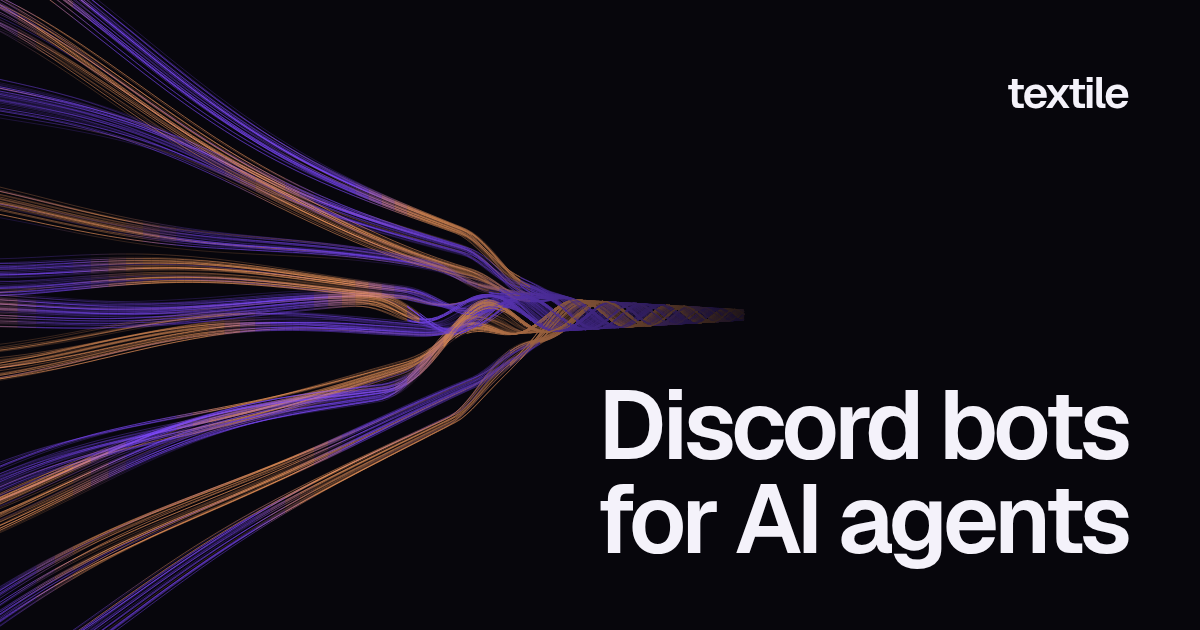
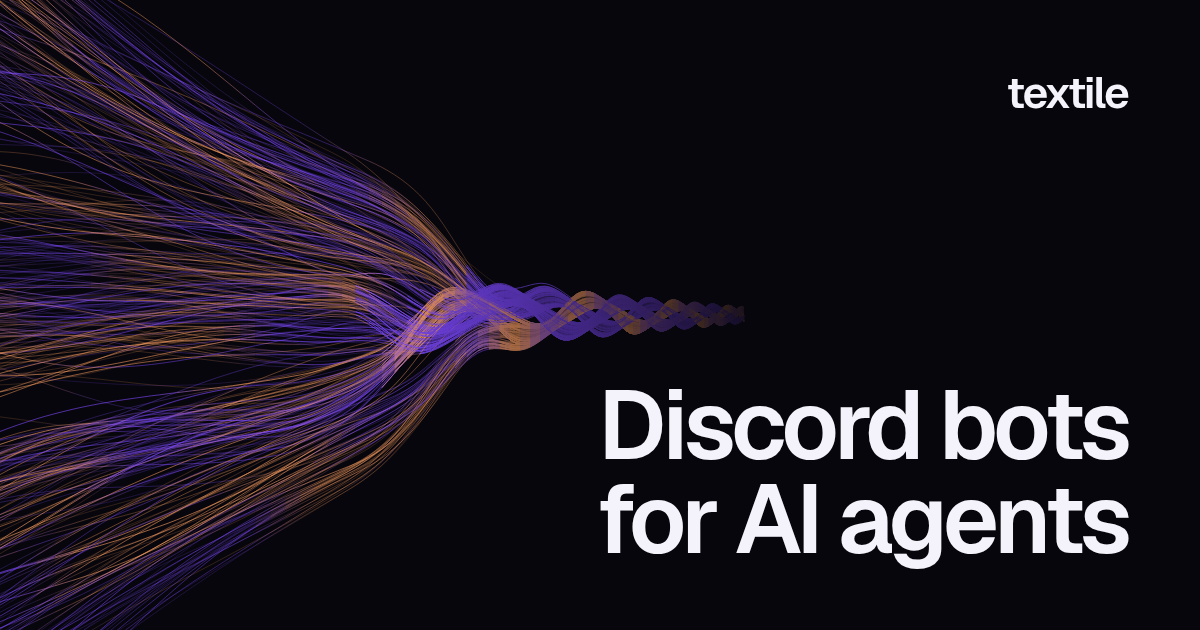
fix(web): glints burn true white, the cord's parting strands carry no rows, and the CPU warms strands as the GPU does
- A glint burns toward a nearly pure white rather than the warm white of hot crossings, whose blue the tone map's
  kept channel ratios held below 220. Over five frames about 1.3% of the braid's pixels now burn white at 4×, against
  1.4–1.5% in the closeup.
- On the cord, the braid's depth shading, its gold strands leaning violet behind, and its glints all fade as soon as
  a strand starts to part. Glints were the rows across the parting strands: they follow the strand's depth, which
  repeats every 40px, and lasted while the strands were still half braided.
- `warmth` on the CPU now leans a gold strand violet behind the braid through `cool`, as the shaders do, from a twist
  it shares with `position`, so the 2D fallback and the social card no longer draw brown undersides. static/og.png is
  regenerated.

Changed region(s): [[0.0, 0.0, 0.6167, 1.0]]

diff --git a/apps/web/src/lib/threads/shaders.ts b/apps/web/src/lib/threads/shaders.ts
@@ -31,6 +31,12 @@ const float = (n: number) => (Number.isInteger(n) ? n.toFixed(1) : String(n))
 /** Half the strip's width, in CSS pixels: room for the thread's own soft halo; the bloom gives the wider glow. */
 const HALF_WIDTH = float(2)
 
+/**
+ * The white a glint burns toward, in either language's vector type: nearly pure, just warm, so a spark on its own reads
+ * white after the tone map keeps its channels' ratios.
+ */
+const SPARK_WHITE = (vec3: string) => `${vec3}(1.0, 0.97, 0.93)`
+
 /** The white the densest light burns toward, in either language's vector type: warm, like the concept's hot crossings. */
 const WARM_WHITE = (vec3: string) => `${vec3}(1.0, 0.93, 0.84)`
 
@@ -93,11 +99,10 @@ const constants = (declare: (name: string, value: string) => string) =>
     // brightest on its band's edge fibres.
     declare('GLINTS', float(12)),
     declare('GLINT_SPEED', float(0.05)),
-    declare('GLINT_LIGHT', float(11)),
+    declare('GLINT_LIGHT', float(13)),
     // How dark a fibre is behind the braid, against in front of it.
     declare('BACK', float(0.2)),
-    // How much of its warmth a strand keeps right at the back of the braid.
-    declare('COOL', float(0.35)),
+    declare('COOL', float(SHAPE.cool)),
     // How much of the bloom adds back, and how bright the flare is where the cord ends.
     declare('BLOOM', float(0.55)),
     declare('FLARE_LIGHT', float(2.5)),
@@ -159,7 +164,7 @@ fn glintLight(depth: f32, f: vec3f) -> f32 {
 // light: a spark of its own, not a share of the fibre's.
 fn spark(shade: f32) -> f32 { return EDGE_LIGHT * BRAID_LIGHT / max(shade, 0.05); }
 // How warm a strand braided (0 to 1) into the braid is at depth, from its warmth w: a gold strand falling behind its
-// neighbours leans violet, as the concept's do, rather than darkening to brown.
+// neighbours leans violet, as the concept's do, rather than darkening to brown. Mirrors cool in geometry.ts.
 fn cool(w: f32, depth: f32, braided: f32) -> f32 { return w * mix(1.0, COOL + (1.0 - COOL) * (0.5 + 0.5 * depth), braided); }
 // Light to colour without bleaching it: the brightest channel saturates as 1 - e^(-x) and the others keep their share
 // of it, so dense light keeps its hue; only the densest, at the braid's crossings and where the cord ends, burns toward
@@ -206,7 +211,7 @@ fn fs(v: Out) -> @location(0) vec4f {
   let halo = 0.1 * exp(-(d * d) / 1.6);
   // A glint adds warm-white light of its own, as bright as the fibre's strongest channel, so it burns white over a band
   // whose own colour is already saturated, rather than adding more of that colour.
-  let spark = ${WARM_WHITE('vec3f')} * max(v.colour.r, max(v.colour.g, v.colour.b)) * glint(v.glint.x) * v.glint.y;
+  let spark = ${SPARK_WHITE('vec3f')} * max(v.colour.r, max(v.colour.g, v.colour.b)) * glint(v.glint.x) * v.glint.y;
   return vec4f((v.colour * pulse(v.pulse.x, v.pulse.y) + spark) * (core + halo), 1.0);
 }`
 
@@ -578,7 +583,7 @@ float glint(float phase) {
 }
 void main() {
   float d = abs(vAcross) * ${HALF_WIDTH};
-  vec3 spark = ${WARM_WHITE('vec3')} * max(vColour.r, max(vColour.g, vColour.b)) * glint(vGlint.x) * vGlint.y;
+  vec3 spark = ${SPARK_WHITE('vec3')} * max(vColour.r, max(vColour.g, vColour.b)) * glint(vGlint.x) * vGlint.y;
   colour = vec4((vColour * pulse(vPulse.x, vPulse.y) + spark) * (exp(-(d * d) / 0.3) + 0.1 * exp(-(d * d) / 1.6)), 1.0);
 }
 `
@@ -692,8 +697,8 @@ const cordConstants = (declare: (name: string, value: string) => string) =>
     declare('FADE', float(224)),
     // How bright loose strands are, behind a section, and how much of that shows behind its prose.
     declare('LOOSE_LIGHT', float(0.55)),
-    // How soon a strand's pulses fall out of step with the braid's as it comes loose: early, so they never line up in
-    // rows across the parting strands.
+    // How soon a strand's pulses fall out of step with the braid's, and the braid's shading and glints fade, as it comes
+    // loose: early, so none of them line up in rows across the parting strands.
     declare('PULSE_SPREAD', float(8)),
     declare('COPY_LIGHT', float(0.2)),
   ].join('\n')
@@ -785,13 +790,16 @@ fn vs(@builtin(vertex_index) vi: u32, @builtin(instance_index) ii: u32) -> Out {
   let pos = here.at + vec2f(-tangent.y, tangent.x) * side * ${HALF_WIDTH} - U[1].xy;
 
   let braided = 1.0 - here.loose;
+  // The braid's depth shading, its warm strands leaning violet behind, and its glints fade as soon as a strand starts
+  // to part, so the loose strands carry no rows of the braid's crossings.
+  let knit = 1.0 - min(here.loose * PULSE_SPREAD, 1.0);
   var pick = hash(i + 4.4);
   if (hash(i + 9.7) < COHERENCE) { pick = fract(th.ribbon * 0.618034 + HUE); }
   let run = here.s / DRIFT_SPAN;
   let flow = run * GRADIENT * mix(1.0, BRAID_GRADIENT, braided) - U[0].w * FLOW;
-  let colour = mix(U[8].rgb, U[9].rgb, cool(warmth(flow + mix(pick, th.strand / 3.0, braided)), here.depth, braided));
+  let colour = mix(U[8].rgb, U[9].rgb, cool(warmth(flow + mix(pick, th.strand / 3.0, braided)), here.depth, knit));
   let own = DIM + (1.0 - DIM) * pow(hash(i + 2.2), 3.0);
-  let shade = mix(own * LOOSE_LIGHT, braidLight(here.depth, th.fibre, own), braided);
+  let shade = mix(own * LOOSE_LIGHT, braidLight(here.depth, th.fibre, own), knit);
   // The cord fades out over FADE above its tip, and dims behind prose.
   let tip = 1.0 - smoothstep(U[1].z - FADE, U[1].z, here.at.y);
 
@@ -804,7 +812,7 @@ fn vs(@builtin(vertex_index) vi: u32, @builtin(instance_index) ii: u32) -> Out {
     run * PULSES - U[0].w * PULSE_SPEED * PULSES + hash(i + 6.6) * min(here.loose * PULSE_SPREAD, 1.0),
     mix(BRAID_PULSE_LIGHT, PULSE_LIGHT, here.loose),
   );
-  out.glint = vec2f(run * GLINTS - U[0].w * GLINT_SPEED * GLINTS + hash(i + 7.7), glintLight(here.depth, th.fibre) * braided * spark(shade));
+  out.glint = vec2f(run * GLINTS - U[0].w * GLINT_SPEED * GLINTS + hash(i + 7.7), glintLight(here.depth, th.fibre) * knit * spark(shade));
   return out;
 }
 `
@@ -890,12 +898,13 @@ void main() {
   vec2 pos = here.at + vec2(-tangent.y, tangent.x) * side * ${HALF_WIDTH} - U[1].xy;
 
   float braided = 1.0 - here.loose;
+  float knit = 1.0 - min(here.loose * PULSE_SPREAD, 1.0);
   float pick = hash(i + 9.7) < COHERENCE ? fract(th.ribbon * 0.618034 + HUE) : hash(i + 4.4);
   float run = here.s / DRIFT_SPAN;
   float flow = run * GRADIENT * mix(1.0, BRAID_GRADIENT, braided) - U[0].w * FLOW;
-  vec3 colour = mix(U[8].rgb, U[9].rgb, cool(warmth(flow + mix(pick, th.strand / 3.0, braided)), here.depth, braided));
+  vec3 colour = mix(U[8].rgb, U[9].rgb, cool(warmth(flow + mix(pick, th.strand / 3.0, braided)), here.depth, knit));
   float own = DIM + (1.0 - DIM) * pow(hash(i + 2.2), 3.0);
-  float shade = mix(own * LOOSE_LIGHT, braidLight(here.depth, th.fibre, own), braided);
+  float shade = mix(own * LOOSE_LIGHT, braidLight(here.depth, th.fibre, own), knit);
   float tip = 1.0 - smoothstep(U[1].z - FADE, U[1].z, here.at.y);
 
   vec2 res = U[0].xy;
@@ -903,6 +912,6 @@ void main() {
   vColour = colour * shade * here.light * tip * behindCopy(here.at) * U[1].w;
   vAcross = side;
   vPulse = vec2(run * PULSES - U[0].w * PULSE_SPEED * PULSES + hash(i + 6.6) * min(here.loose * PULSE_SPREAD, 1.0), mix(BRAID_PULSE_LIGHT, PULSE_LIGHT, here.loose));
-  vGlint = vec2(run * GLINTS - U[0].w * GLINT_SPEED * GLINTS + hash(i + 7.7), glintLight(here.depth, th.fibre) * braided * spark(shade));
+  vGlint = vec2(run * GLINTS - U[0].w * GLINT_SPEED * GLINTS + hash(i + 7.7), glintLight(here.depth, th.fibre) * knit * spark(shade));
 }
 `

diff --git a/apps/web/src/lib/threads/geometry.ts b/apps/web/src/lib/threads/geometry.ts
@@ -141,6 +141,8 @@ export const SHAPE = {
   bends: 9,
   /** The share of threads that stray from their ribbon onto a lane of their own and wander between the streams. */
   stray: 0.1,
+  /** How much of its warmth a strand keeps right at the back of the braid. */
+  cool: 0.35,
   /** How fast the braid turns, in radians per second: its crossings travel toward `end`. */
   spin: 0.9,
   /** How bright a labelled thread is, against 1 for the brightest of the rest: its fibre stands out on the dark. */
@@ -289,6 +291,17 @@ const spineLength = ({ start: p0, control: p1, end: p2 }: Field) =>
     Math.hypot(p2[0] - p1[0], p2[1] - p1[1])) /
   3
 
+/**
+ * How far strand `strand` of the braid has turned `u` along it at time `t`. The twist integrates one turn per `pitch`
+ * radii along a spine whose radius narrows linearly: a logarithm. Mirrors `twist` in `place` in the shaders.
+ */
+const twistOf = (field: Field, strand: number, u: number, t: number) =>
+  (spineLength(field) / (SHAPE.pitch * field.cord * SHAPE.swell)) *
+    TAU *
+    Math.log((1 + SHAPE.swell) / (1 + SHAPE.swell * (1 - u))) -
+  t * SHAPE.spin +
+  (strand * TAU) / 3
+
 /** A thread's position at `u` (0 at the start, 1 at the end) and time `t` in seconds. Mirrors `place` in the shaders. */
 export function position(field: Field, i: number, u: number, t: number): Point {
   const { start: p0, control: p1, end: p2, cord } = field
@@ -311,13 +324,7 @@ export function position(field: Field, i: number, u: number, t: number): Point {
   const bend = wander.reach * Math.sin(u * wander.bends + t * 0.12 + wander.phase)
   const current = width * (lane + SHAPE.wave * held * sway + bend)
 
-  // The twist's angle integrates one turn per `pitch` radii along a spine whose radius narrows linearly: a logarithm.
-  const turns = spineLength(field) / (SHAPE.pitch * cord * SHAPE.swell)
-  const twist =
-    turns * TAU * Math.log((1 + SHAPE.swell) / (1 + SHAPE.swell * a)) -
-    t * SHAPE.spin +
-    (strand * TAU) / 3
-  const braided = radius * band(twist, jitter, edge, u, drift)
+  const braided = radius * band(twistOf(field, strand, u, t), jitter, edge, u, drift)
   const offset = current + (braided - current) * ease(joins - SHAPE.join, joins, u)
   return [x + nx * offset, y + ny * offset]
 }
@@ -331,16 +338,25 @@ const ribbonPick = (ribbon: number) => {
 }
 
 /**
+ * How warm a strand `braided` (0 to 1) into the braid is at `depth`, from its warmth `w`: a gold strand falling
+ * behind its neighbours leans violet, as the concept's do, rather than darkening to brown. Mirrors `cool` in the shaders.
+ */
+export const cool = (w: number, depth: number, braided: number) =>
+  w * (1 + (SHAPE.cool + (1 - SHAPE.cool) * (0.5 + 0.5 * depth) - 1) * braided)
+
+/**
  * How warm thread `i` is at `u` along it and time `t`: 0 violet, 1 amber. Every thread runs violet to amber and back,
- * the gradient flowing toward the end; in the funnel most share their ribbon's phase, in the braid their strand's.
- * Mirrors `warmth` and its use in the shaders; `braided` is how far into the braid `u` is, 0 to 1.
+ * the gradient flowing toward the end; in the funnel most share their ribbon's phase, in the braid their strand's, and
+ * a strand behind the braid's others leans violet. Mirrors `warmth` and its use, through `cool`, in the shaders;
+ * `braided` is how far into the braid `u` is, 0 to 1.
  */
 export const warmth = (field: Field, i: number, u: number, t: number, braided: number) => {
   const { ribbon, strand } = thread(field, i)
   const pick = hash(i + 9.7) < SHAPE.coherence ? ribbonPick(ribbon) : hash(i + 4.4)
   const rate = SHAPE.gradient * (1 + (SHAPE.braidGradient - 1) * braided)
   const phase = u * rate - t * SHAPE.flow + pick + (strand / 3 - pick) * braided
-  return smoothstep(-SHAPE.turn, SHAPE.turn, Math.sin(TAU * phase) + SHAPE.warm)
+  const w = smoothstep(-SHAPE.turn, SHAPE.turn, Math.sin(TAU * phase) + SHAPE.warm)
+  return cool(w, Math.sin(2 * twistOf(field, strand, u, t)), braided)
 }
 
 /**
